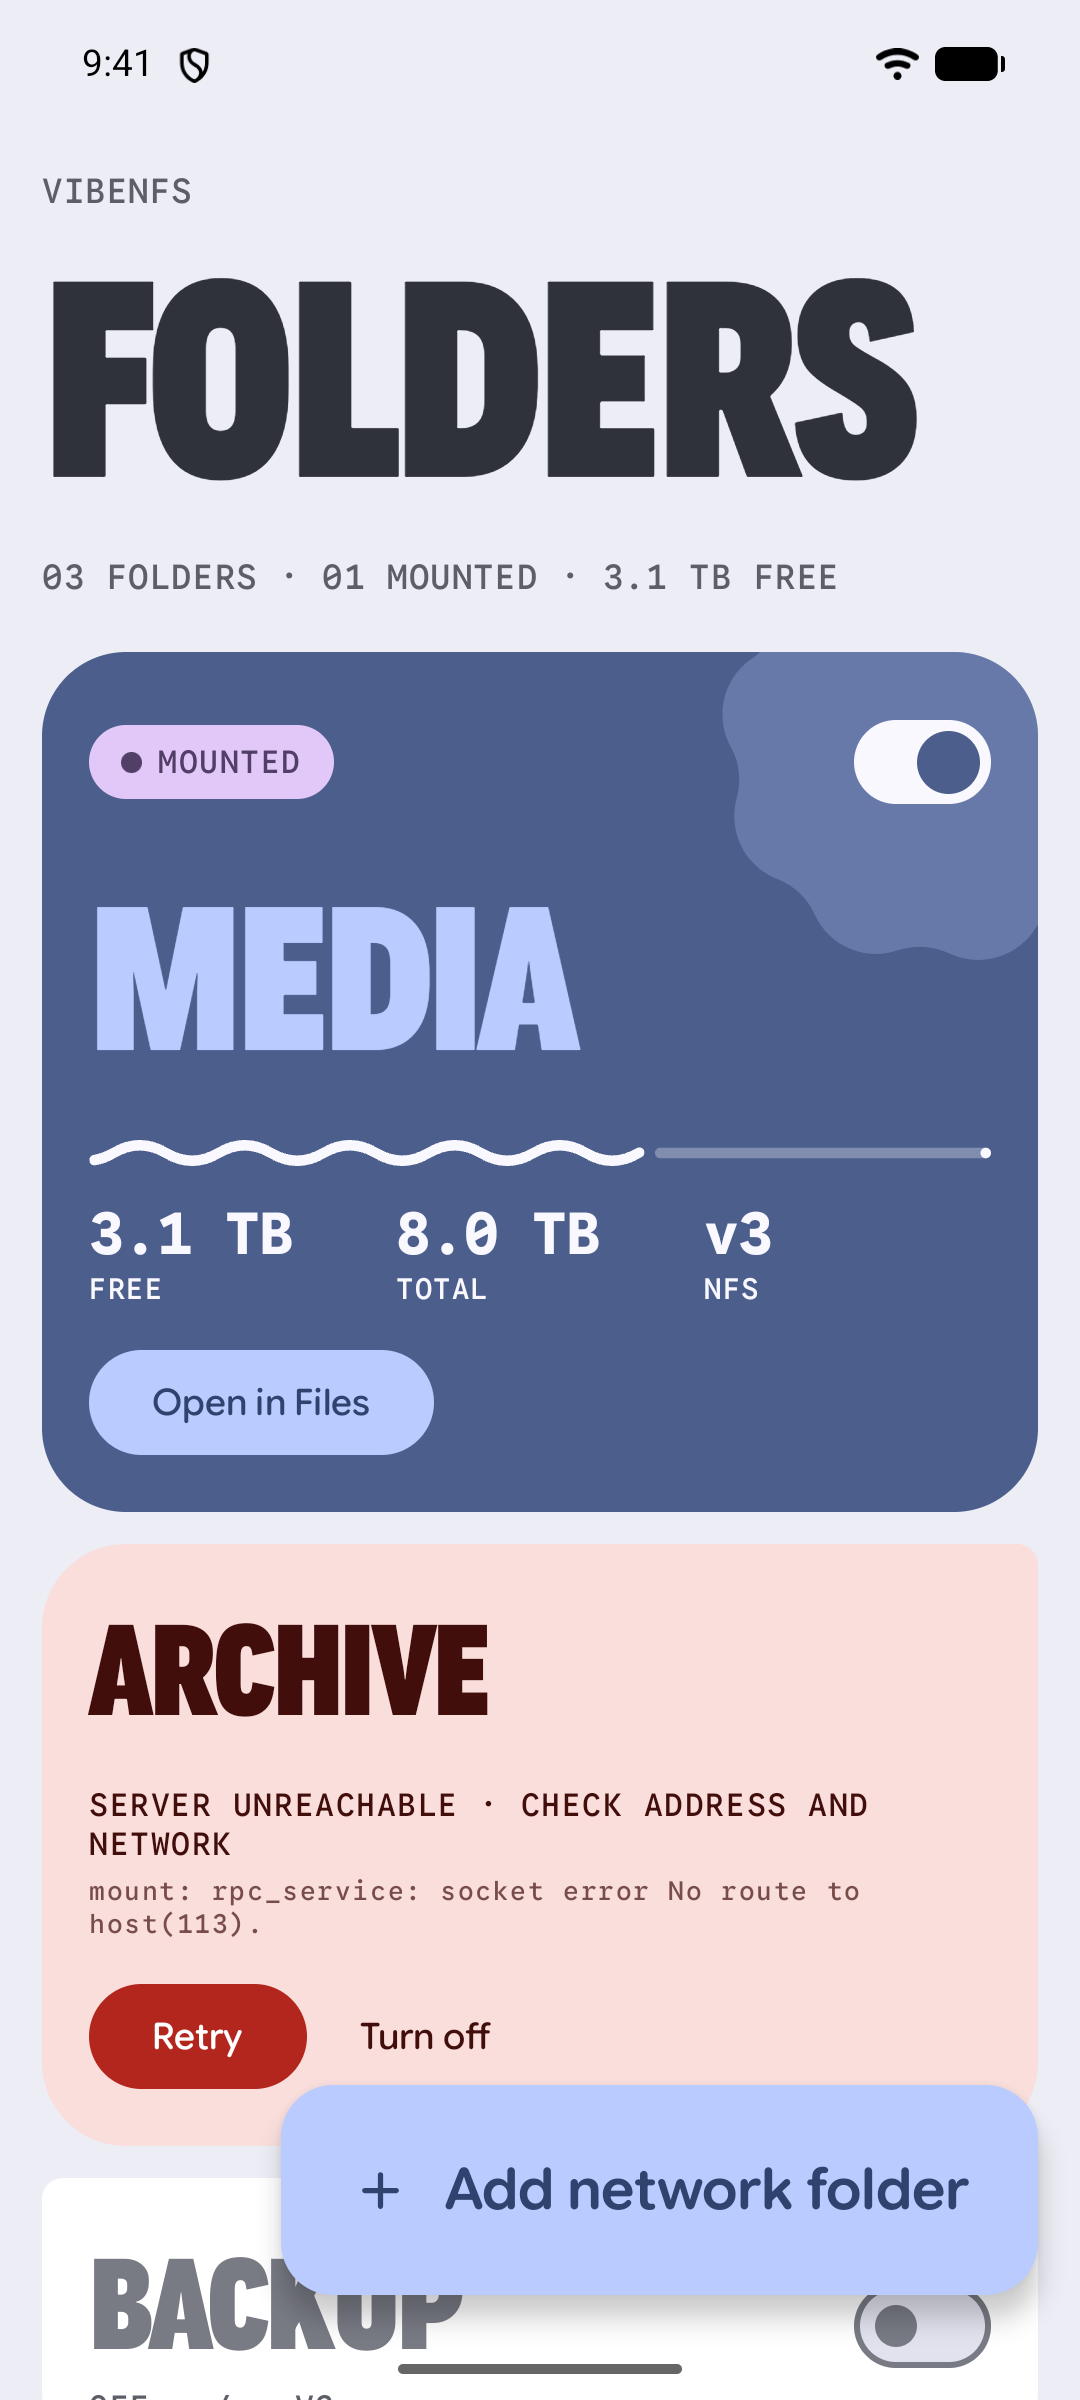
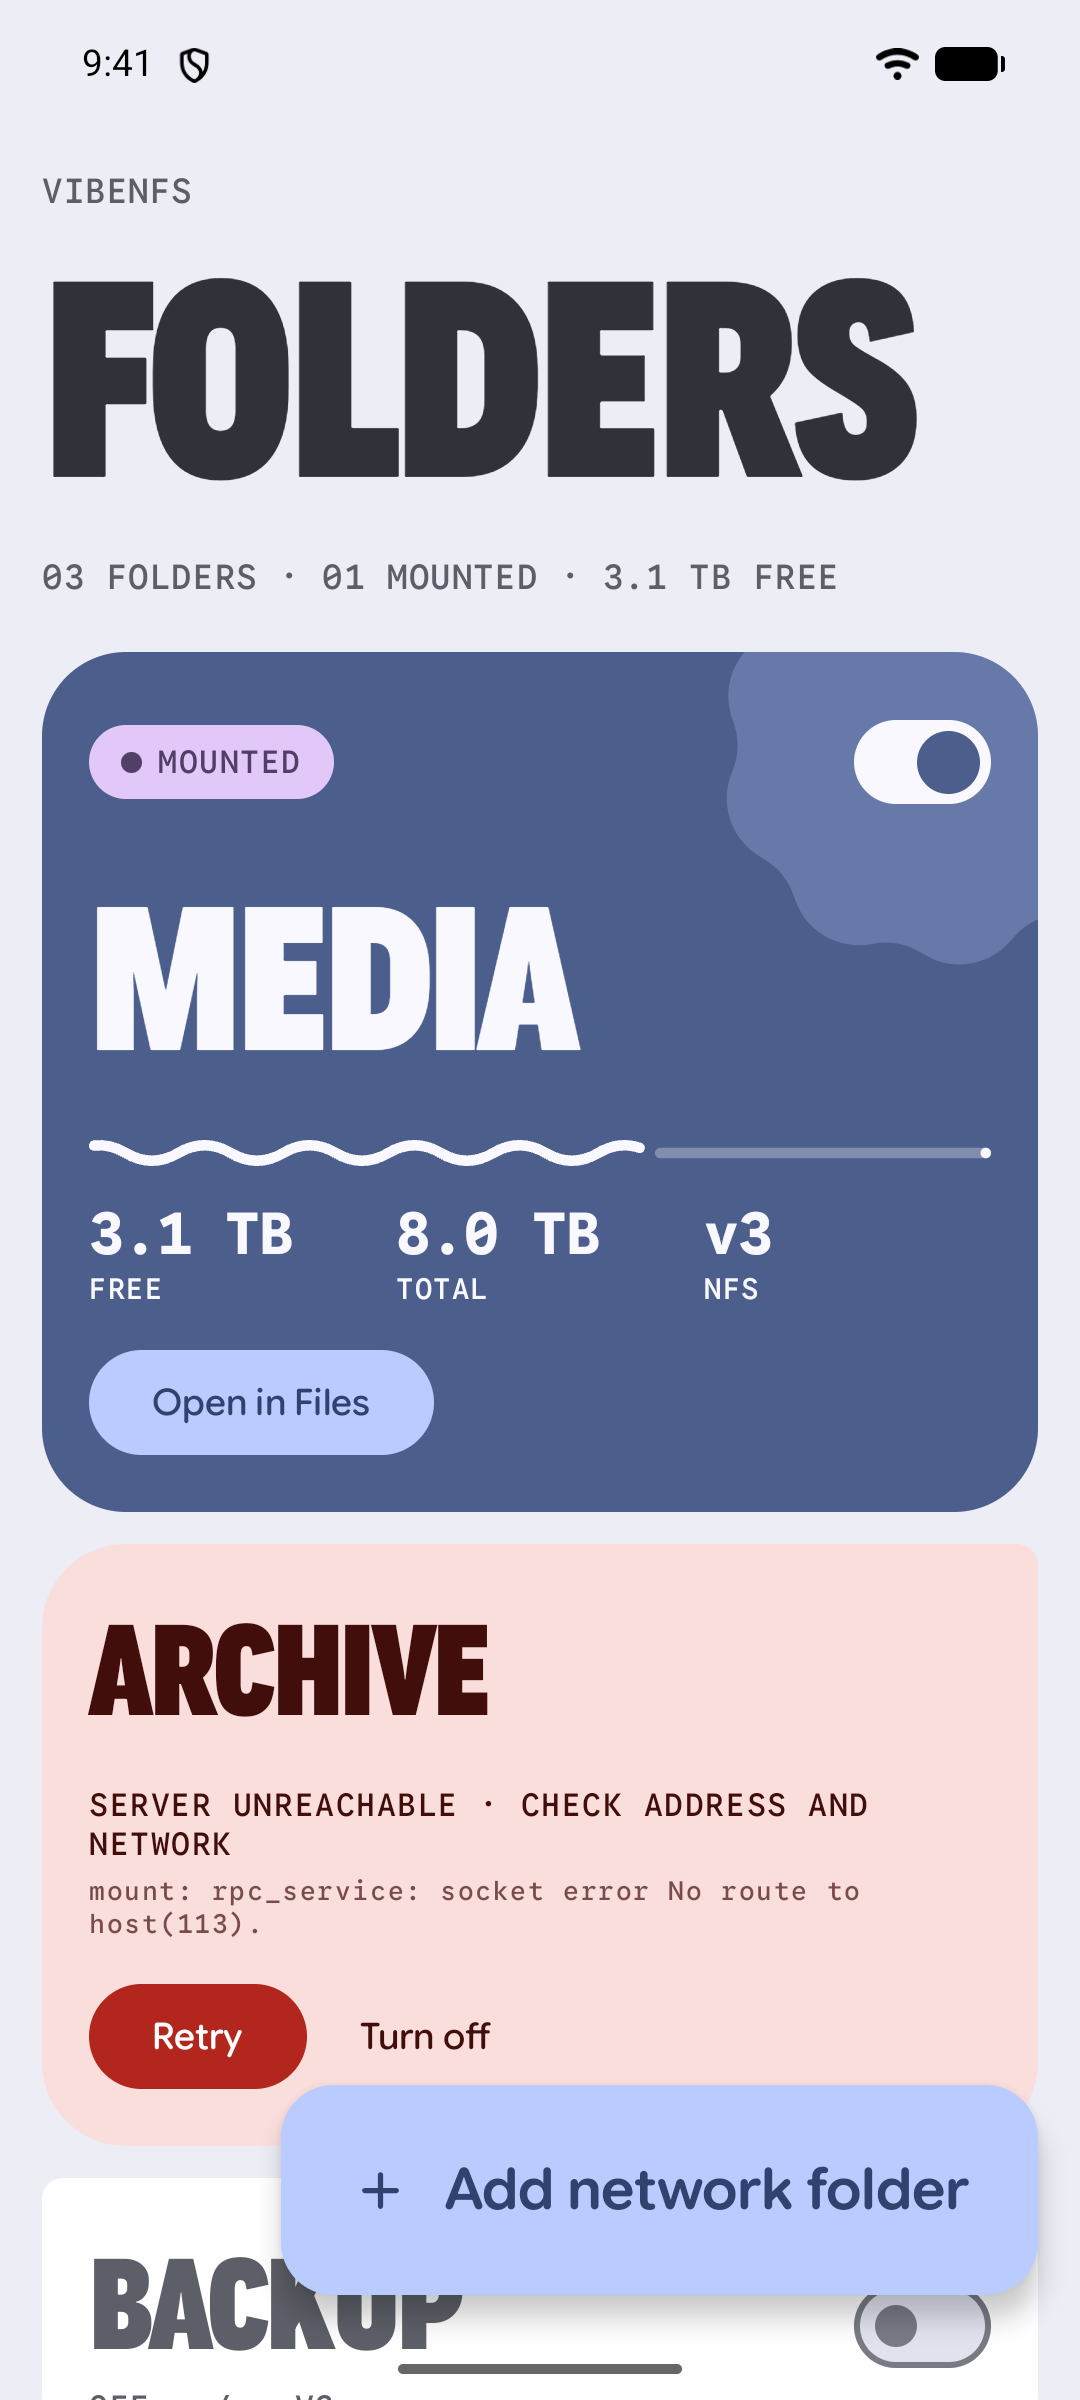
Readable folder names on any palette, system-colored save menu
The mounted card drew its name in primaryContainer on primary, a pair
Material doesn't guarantee to contrast: with some wallpapers in dark
theme they were near-identical. Use onPrimary, and onSurfaceVariant for
off folders. The save menu takes the system menu container lifted one
tone, with an outline instead of a shadow that only appeared once the
enter animation ended.

diff --git a/app/src/main/java/dev/vibenfs/ui/FolderEditScreen.kt b/app/src/main/java/dev/vibenfs/ui/FolderEditScreen.kt
@@ -5,6 +5,7 @@ package dev.vibenfs.ui
 import android.util.Log
 import androidx.compose.animation.AnimatedVisibility
 import androidx.compose.animation.EnterExitState
+import androidx.compose.foundation.BorderStroke
 import androidx.compose.foundation.background
 import androidx.compose.foundation.layout.Arrangement
 import androidx.compose.foundation.layout.Box
@@ -414,19 +415,21 @@ private fun SaveSplitButton(onSaveAndMount: () -> Unit, onSave: () -> Unit) {
                     shapes = SplitButtonDefaults.trailingButtonShapesFor(SplitButtonDefaults.MediumContainerHeight),
                     contentPadding = SplitButtonDefaults.trailingButtonContentPaddingFor(SplitButtonDefaults.MediumContainerHeight),
                 ) { Icon(if (menu) Icons.Rounded.KeyboardArrowUp else Icons.Rounded.KeyboardArrowDown, stringResource(R.string.more_save_options)) }
-                // The screen is surfaceContainer, the menu's default: give it its own color so it stands out.
+                // The screen is surfaceContainer, the menu's default: lift it one tone and outline it.
+                // No shadow: a popup's shadow only shows once its enter animation ends, a visible lag.
                 val colors = MaterialTheme.colorScheme
                 DropdownMenu(
                     expanded = menu,
                     onDismissRequest = { menu = false },
                     shape = RoundedCornerShape(20.dp),
-                    containerColor = colors.tertiaryContainer,
-                    shadowElevation = 6.dp,
+                    containerColor = colors.surfaceContainerHighest,
+                    shadowElevation = 0.dp,
+                    border = BorderStroke(1.dp, colors.outlineVariant),
                 ) {
                     DropdownMenuItem(
                         text = { Text(stringResource(R.string.save), style = MaterialTheme.typography.titleMedium) },
                         leadingIcon = { Icon(Icons.Rounded.Save, null) },
-                        colors = MenuDefaults.itemColors(textColor = colors.onTertiaryContainer, leadingIconColor = colors.onTertiaryContainer),
+                        colors = MenuDefaults.itemColors(textColor = colors.onSurface, leadingIconColor = colors.onSurfaceVariant),
                         onClick = { menu = false; onSave() },
                     )
                 }

diff --git a/app/src/main/java/dev/vibenfs/ui/FolderListScreen.kt b/app/src/main/java/dev/vibenfs/ui/FolderListScreen.kt
@@ -182,7 +182,8 @@ private fun MountedBody(volume: Volume, state: MountState.Mounted, onToggle: () 
         Spacer(Modifier.weight(1f))
         MountSwitch(volume, true, onToggle, onPrimary = true)
     }
-    Poster(volume.name, colors.primaryContainer, maxSize = 76)
+    // onPrimary on primary is the pair Material guarantees readable for any wallpaper palette.
+    Poster(volume.name, colors.onPrimary, maxSize = 76)
     val total = state.totalBytes
     val free = state.freeBytes
     if (total != null && free != null && total > 0) {
@@ -244,7 +245,7 @@ private fun ErrorBody(volume: Volume, state: MountState.Error, onMount: (Boolean
 private fun OffBody(volume: Volume, onToggle: () -> Unit) {
     Row(verticalAlignment = Alignment.CenterVertically) {
         Column(Modifier.weight(1f)) {
-            Poster(volume.name, MaterialTheme.colorScheme.outline, maxSize = 48)
+            Poster(volume.name, MaterialTheme.colorScheme.onSurfaceVariant, maxSize = 48)
             MonoLabel("${stringResource(R.string.state_off)} · ${volume.export} · ${volume.version.label()}")
         }
         MountSwitch(volume, false, onToggle, onPrimary = false)
